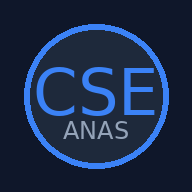
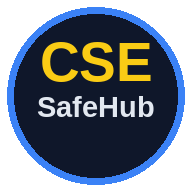
FASE 4-sexies - aggiornamento icone e header: CSE giallo, SafeHub al posto di ANAS

diff --git a/index.html b/index.html
@@ -61,7 +61,7 @@
             </div>
             <div class="flex items-center gap-3">
                 <span class="text-2xl">🚧</span>
-                <h1 id="app-title" class="text-xl font-bold tracking-tight">CSE SafeHub</h1>
+                <h1 id="app-title" class="text-xl font-bold tracking-tight"><span class="text-yellow-400">CSE</span> SafeHub</h1>
             </div>
         </div>
         <div class="flex items-center gap-3">